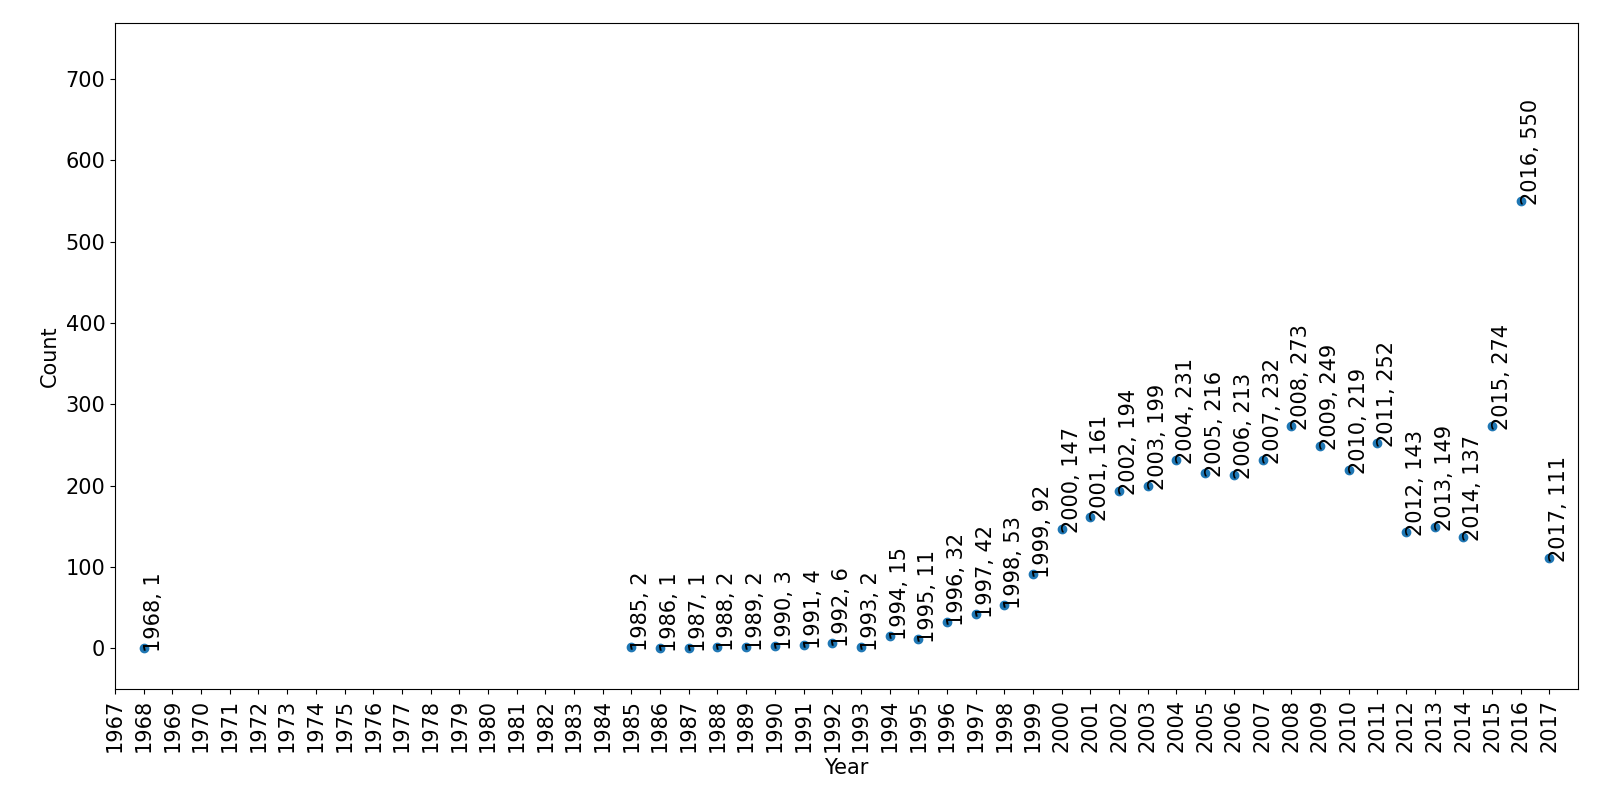
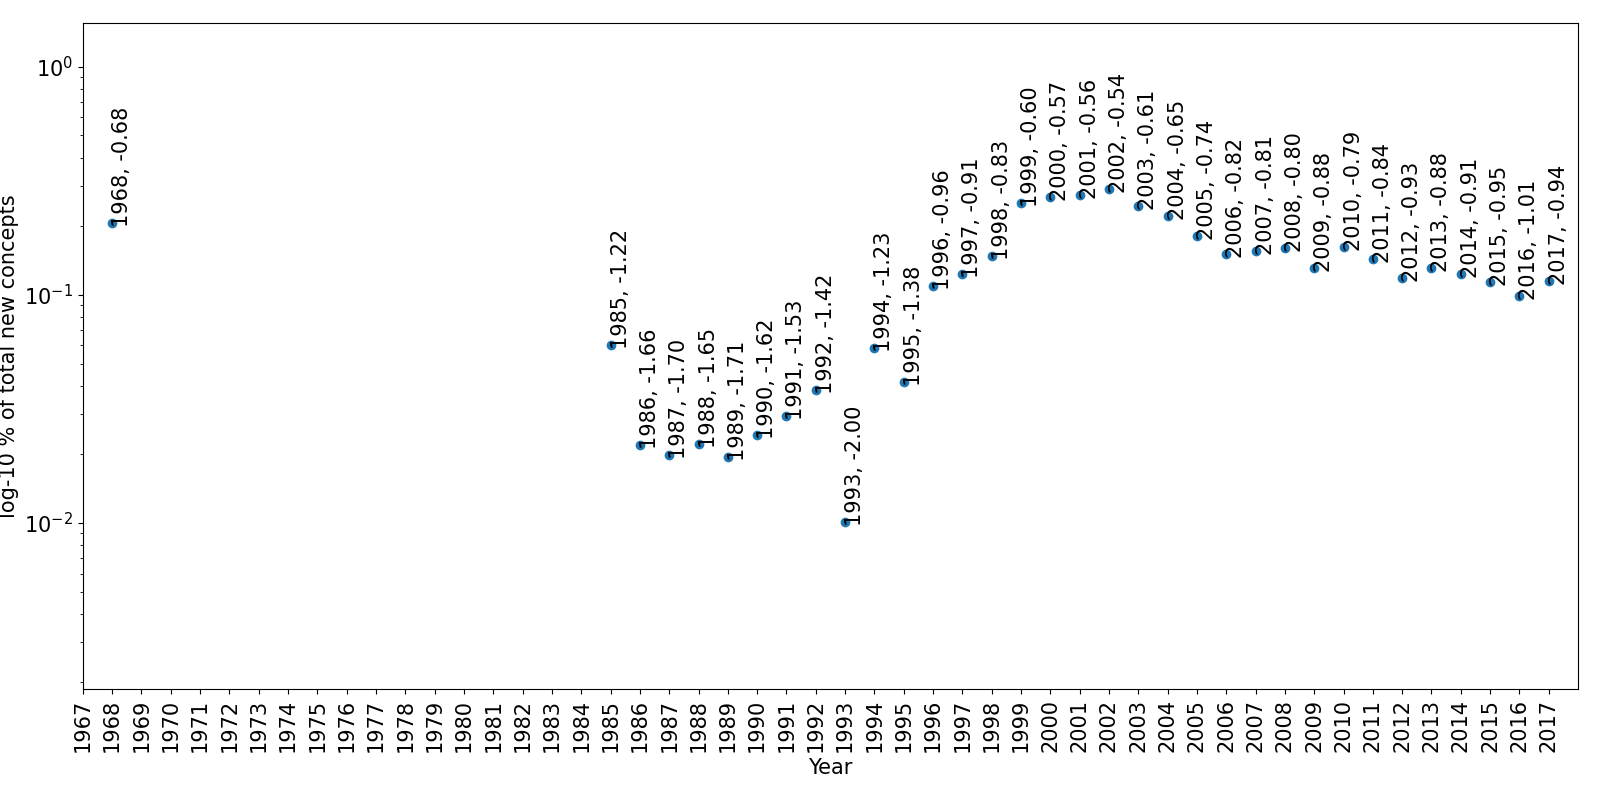
log-10 % of all new, changed examples

diff --git a/querries/querry_concepts.py b/querries/querry_concepts.py
@@ -2,6 +2,7 @@ from ConsoleListInterface import MenuInterface, waitForEnter
 import matplotlib.pyplot as plt
 from readchar import key
 from tqdm import tqdm
+import pandas as pd
 import numpy as np
 import matplotlib
 import pickle
@@ -27,6 +28,11 @@ def trace_concept(regex, filename, concept_list):
 
     print(f"\n{len(regex_list)} concepts found.\n")
 
+    try:
+        df = pd.read_hdf("other_data/years.h5", key="concept")
+    except:
+        df = None
+
     data  = {}
     years = {}
     top   = {} # {concept: (count, year)} for top ten concepts (with highest counts) 
@@ -43,7 +49,7 @@ def trace_concept(regex, filename, concept_list):
         if year in years:
             years[year] += 1
         else:
-            years[year] = 1
+            years[year]  = 1
 
         count = data[letter][concept]["count"]
         # for the first ten concept processed
@@ -82,27 +88,48 @@ def trace_concept(regex, filename, concept_list):
 
     print(f"\nTop concepts saved to 'querries/{filename}/{filename}.yaml'.")
 
+    if df is not None:
+        # not enough data in these years
+        for year in [1951, 1952]:
+            if year in years:
+                del year[years]
+
+        for year in years:
+            try:
+                # * 100 => this value is in percentage points
+                years[year] = years[year] * 100 / df['count'].loc[year]
+            except:
+                del years[year]
+
     fig, ax = plt.subplots()
 
     fig.set_figwidth(16)
     fig.set_figheight(8)
-    plt.margins(x=0.02, y=0.4)
+    plt.margins(x=0.02, y=0.5)
 
     plt.scatter(years.keys(), years.values())
 
     plt.xlabel("Year")
-    plt.ylabel("Count")
     plt.tick_params(axis='x', which='both', rotation=90)#, pad=20)
     plt.tight_layout()
-    for xy in zip(years.keys(), years.values()):
-        plt.annotate(f'{xy[0]}, {xy[1]}', xy=xy, rotation=90)
+
+    if df is None:
+        plt.ylabel("Count")
+        for xy in zip(years.keys(), years.values()):
+            plt.annotate(f'{xy[0]}, {xy[1]}', xy=xy, rotation=90)
+        # setting bottom y at y frequency over four for better visibility 
+        ax.set_ylim(bottom=-y_freq/4) 
+        
+    else:
+        plt.ylabel("log-10 % of total new concepts")
+        for xy in zip(years.keys(), years.values()):
+            plt.annotate(f'{xy[0]}, {math.log(xy[1], 10):.2f}', xy=xy, rotation=90)
+        ax.set_yscale('log', base=10)
 
     y_ticks = ax.get_yticks()
     y_freq  = y_ticks[1] - y_ticks[0]
     # setting xticks for all years
     ax.set_xticks(np.arange(math.floor(ax.get_xlim()[0]), math.ceil(ax.get_xlim()[1]), 1))
-    # setting bottom y at y frequency over four for better visibility 
-    ax.set_ylim(bottom=-y_freq/4) 
 
     plt.savefig(f"querries/{filename}/{filename}.png")
 
@@ -189,7 +216,7 @@ def main():
 
         # trace merged concept based on regex
         if path.startswith("Trace"):
-            regex = menu.separateInteraction(function=lambda: input("Regex to search for: ").lower(), showCursor=True)
+            regex = menu.separateInteraction(function=lambda: input("Regex of concept to trace: ").lower(), showCursor=True)
             if not regex or regex.isspace():
                 continue
             try: